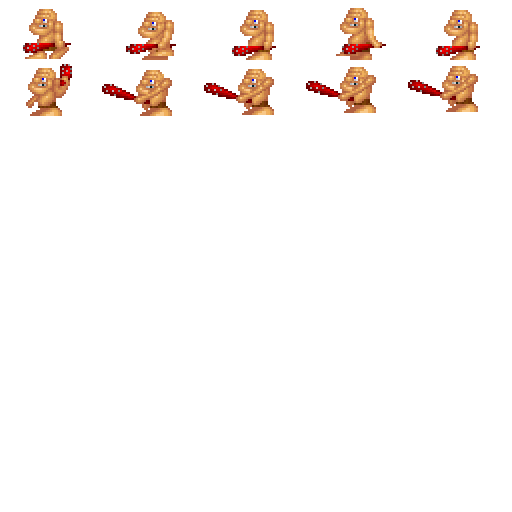
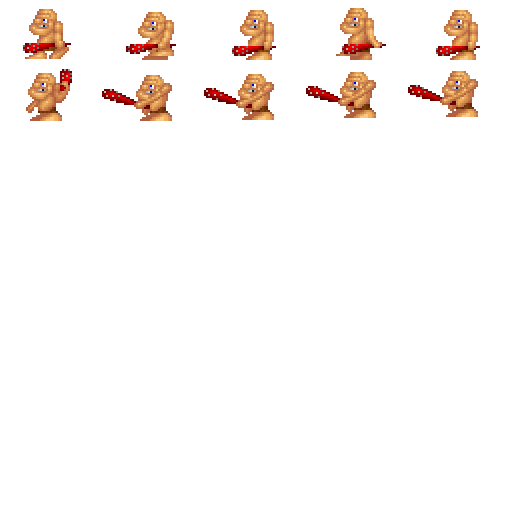
* preparing for release 0.4.7 * fixed grudge image

diff --git a/src/game/dgl.cpp b/src/game/dgl.cpp
@@ -26,7 +26,7 @@
 #include "sdlgamewindowfactory.h"
 
 /*!
- 	\mainpage JEngine SSE - 2D Side Scoller Documentation
+ 	\mainpage JEngine SE - 2D Smart Scoll Engine Documentation
  	\section intro_sec Introduction
  	These pages contain the complete documentation of the JEngine sources. You will find here
 	all information about the classes, structures, etc used to implement the engine.
@@ -38,7 +38,7 @@
 	<li>OpenGL support via SDL
 	<li>Multiplatform: Windows and Linux
 	<li>GLSL and CG shading
-	<li>Lua scripting language
+	<li>Scripting language
 	<li>and much more.. :)
 	</ul>
 
@@ -48,12 +48,22 @@
 	This software is provided 'as-is' without any express or implied warranty. In no event will
 	the authors be held liable for any damages arising from the use of this software.
 
-	JEngine makes use of:
+	JEngine supports/uses the following libraries:
 	<ul>
-	<li>Lua, http://www.lua.org/
-	<li>toLua, http://www.tecgraf.puc-rio.br/~celes/tolua/
+   <li>Antlr, http://antlr.org/
+   <li>Box2D, http://box2d.org/
+   <li>CxxTest, http://cxxtest.tigris.org/
+   <li>DevIL, http://openil.sourceforge.net/
+   <li>FreeType2, http://freetype.org/
+   <li>GLee, http://elf-stone.com/glee.php
+   <li>ICU, http://site.icu-project.org/
+   <li>NVidia Cg, http://developer.nvidia.com/
+   <li>Ogg/Vorbis, http://xiph.org/
 	<li>OpenAL, http://www.openal.org/
+   <li>SDL, http://libsdl.org/
+   <li>SOIL, http://www.lonesock.net/soil.html
 	<li>TinyXML, http://www.grinninglizard.com/tinyxml
+   <li>Zlib, http://zlib.net/
 	</ul>
  */
 

diff --git a/src/game/game.cpp b/src/game/game.cpp
@@ -94,7 +94,7 @@ Game::~Game()
 bool Game::create()
 {
    Log& log = Log::getInstance();
-   log << "JEngine SSE V0.4.6 - Copyright 2012 - Jeroen Broekhuizen\n";
+   log << "JEngine SSE V0.4.7 - Copyright 2012 - Jeroen Broekhuizen\n";
    log << "Released under LGPL, see license.txt file for more info.\n";
    log << "---------------------------------------------------------\n";
 
